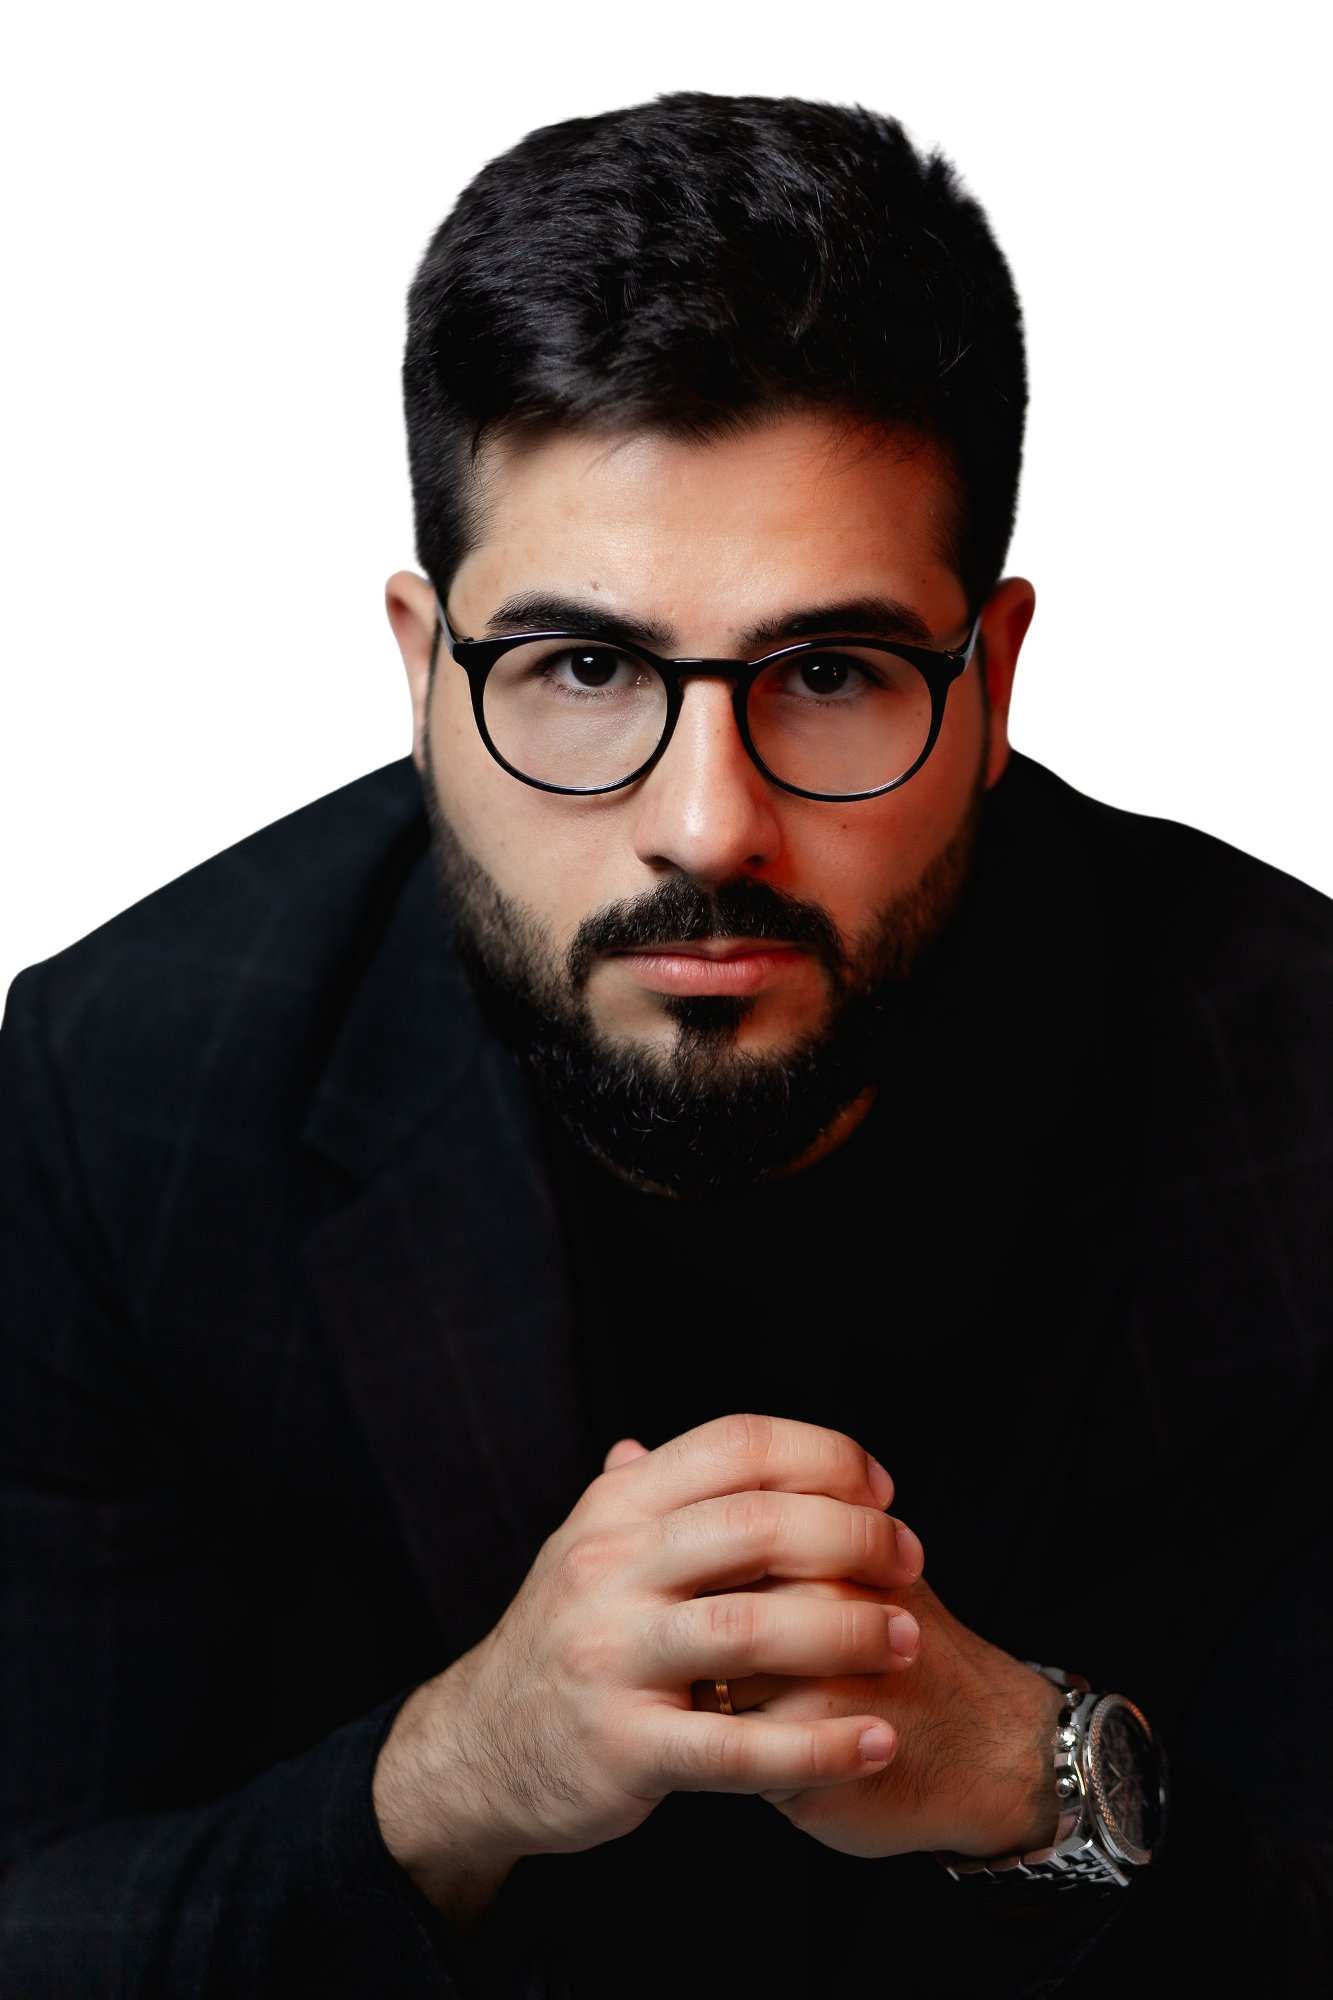
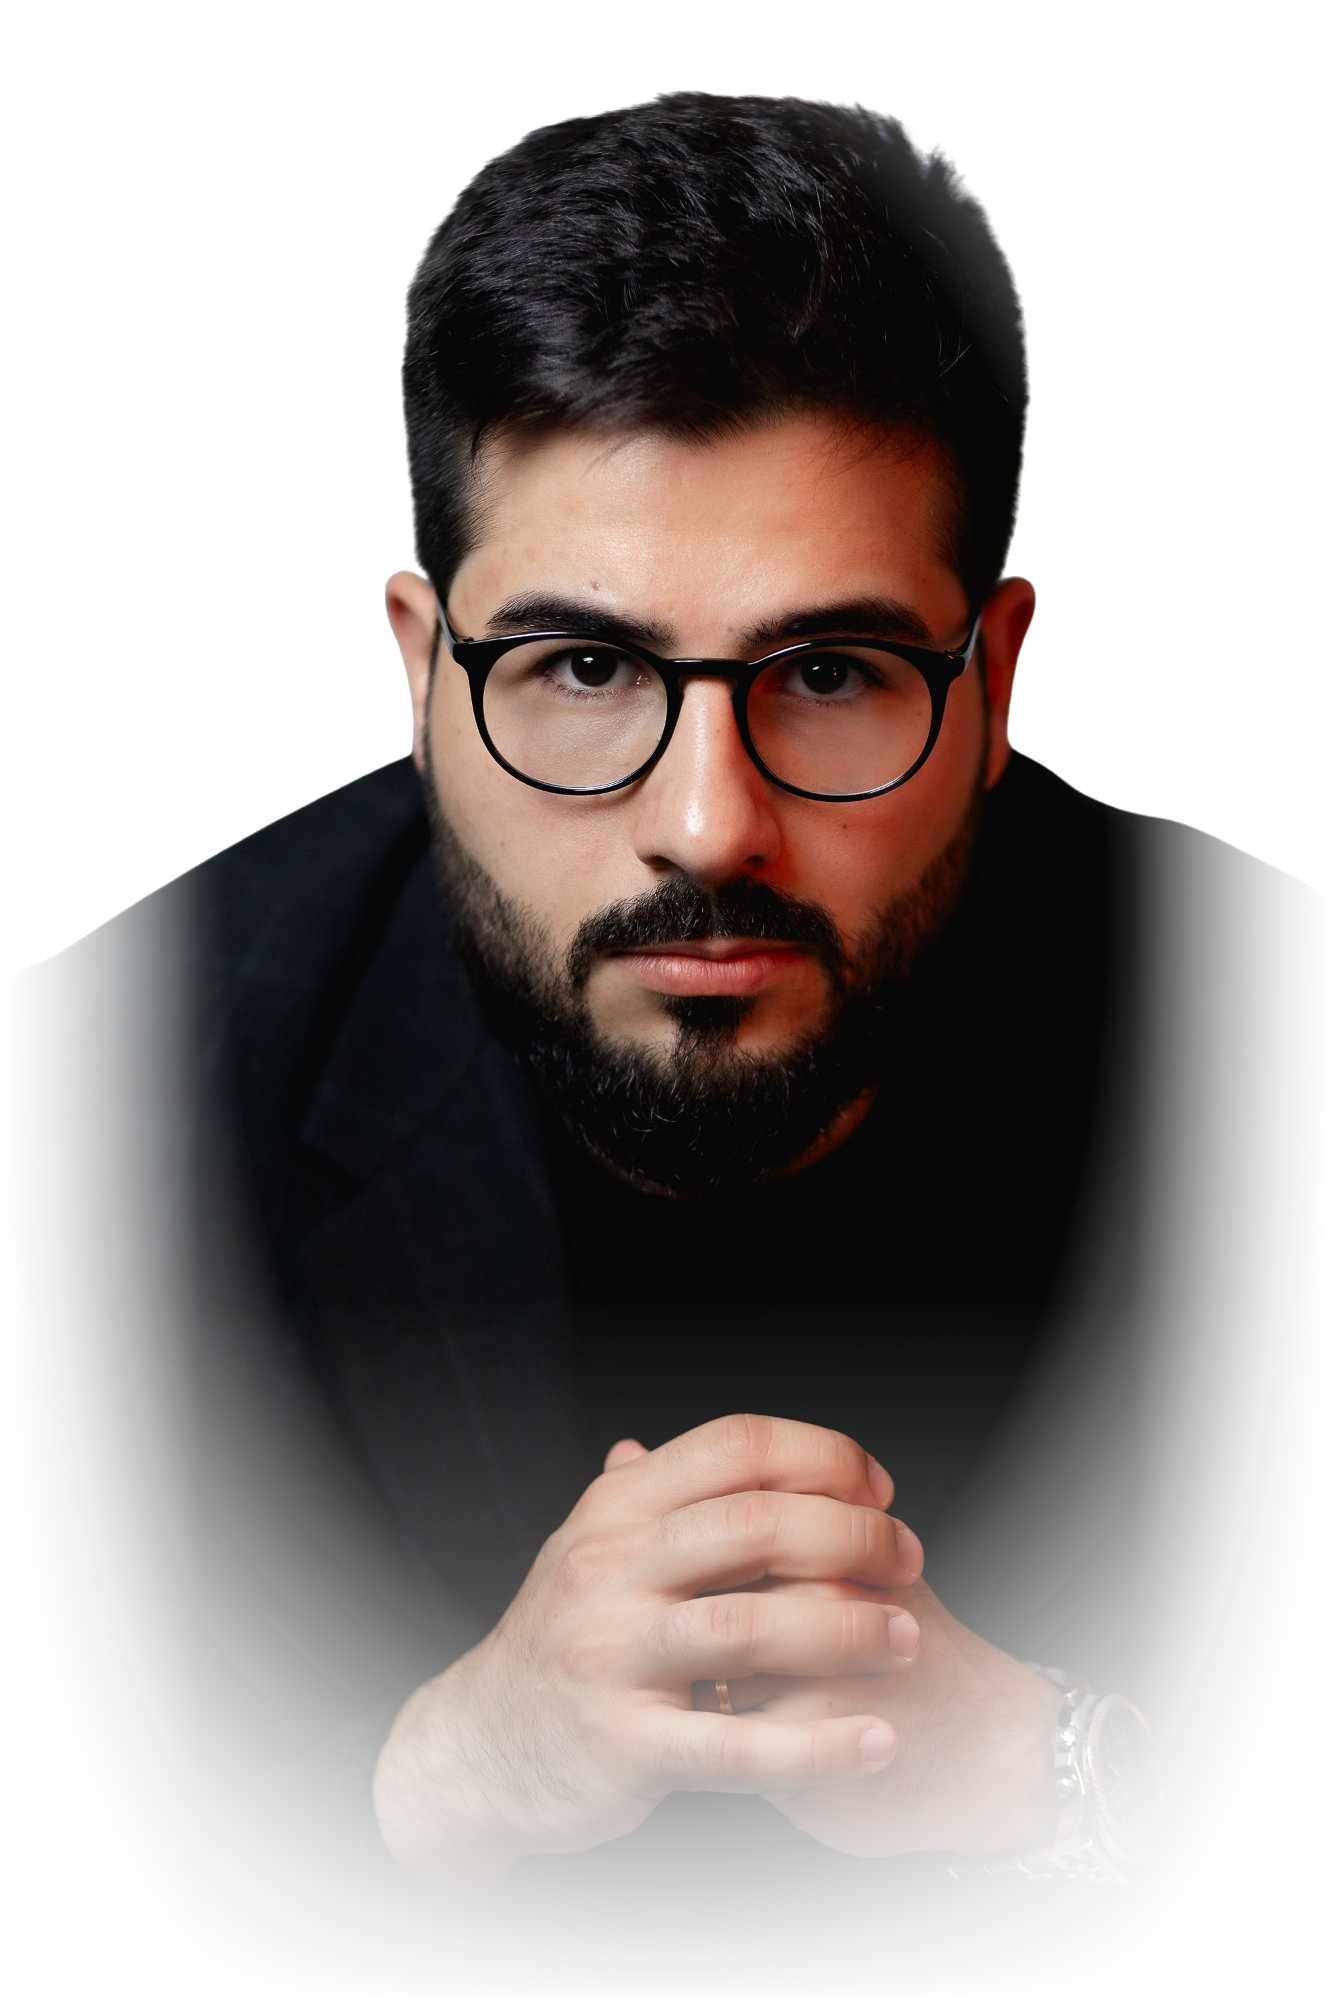
feat: hero — background Cedro_bg, foto sem fundo com fade nas bordas

diff --git a/app/page.tsx b/app/page.tsx
@@ -134,9 +134,11 @@ export default function Home() {
   return (
     <div className="flex flex-col">
       {/* HERO */}
-      <section className="min-h-screen flex items-center pt-20 relative overflow-hidden">
+      <section className="min-h-screen flex items-center pt-20 relative overflow-hidden"
+        style={{ backgroundImage: 'url(/hero-bg.png)', backgroundSize: 'cover', backgroundPosition: 'center' }}>
+        <div className="absolute inset-0 bg-cedro-black/60 pointer-events-none" />
         <div className="absolute top-0 right-0 w-1/2 h-full bg-gradient-to-br from-cedro-red/5 to-transparent pointer-events-none" />
-        <div className="max-w-[1200px] mx-auto px-8 w-full">
+        <div className="max-w-[1200px] mx-auto px-8 w-full relative z-10">
           <div className="grid grid-cols-1 md:grid-cols-[1.1fr_0.9fr] gap-8 md:gap-16 items-center">
             <motion.div 
               className="order-2 md:order-1"
